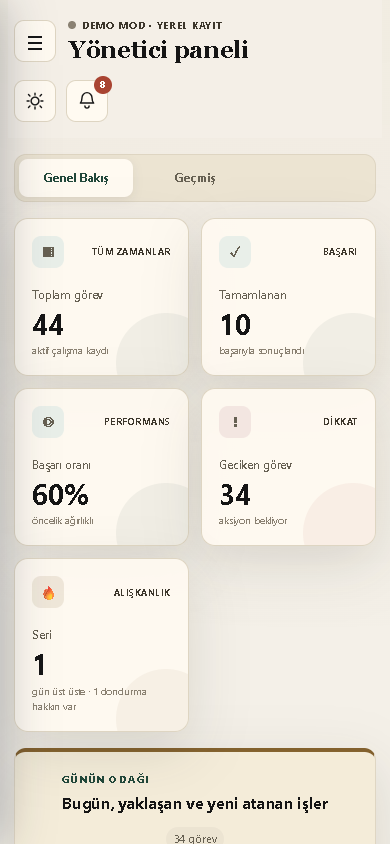
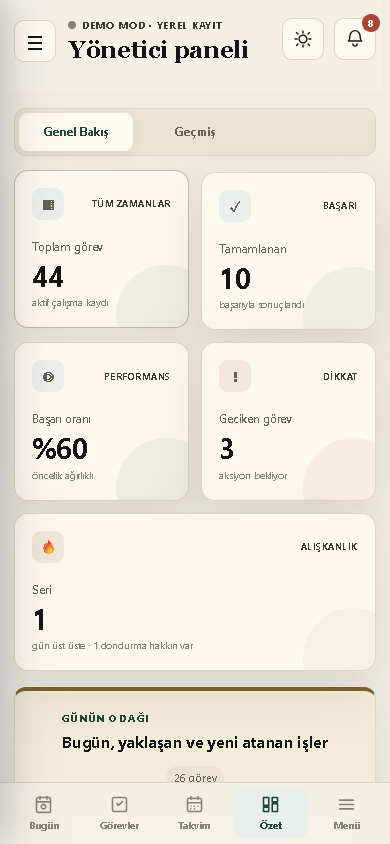
Ekran görüntülerini ve README özelliklerini yeni arayüze göre güncelle
- screenshots/ yeniden üretildi (kompakt liste, pano gruplama seçici, mobil alt çubuk)
- capture-screenshots: geçici bildirimler gizleniyor, Görevler ekranı en üstten çekiliyor
- README "Özellikler": tarihe göre gruplanmış liste, Kanban sütun gruplama, takvim Ay/Hafta,
  mobil alt gezinme çubuğu, uygulama içi onay penceresi, Q kısayolu

diff --git a/README.md b/README.md
@@ -79,6 +79,9 @@ Temel hedefler:
 - Tekrarlayan görevlerde bir sonraki örnek, görev kimliği ve tarihten türetilen sabit kimlikle oluşur; aynı görev iki cihazda tamamlansa da çift kayıt oluşmaz
 - Yönetici tarafından açılan hesaplar ilk girişte şifre değiştirmeye yönlendirilir
 - Kanban üzerinde sürükle-bırak durum değiştirme
+- Tarihe göre gruplanmış kompakt görev listesi (Gecikmiş / Bugün / Önümüzdeki 7 gün / Daha sonra / Tarihsiz); yuvarlak kutu görevi tamamlar, başlık detayı açar
+- Kanban sütunlarını duruma, önceliğe, kişiye veya projeye göre gruplama
+- Takvimde Ay / Hafta görünümü
 
 ### Arama ve raporlama
 
@@ -95,6 +98,9 @@ Temel hedefler:
 ### Kullanılabilirlik
 
 - Mobil açılır menü
+- Mobilde alt gezinme çubuğu (Bugün, Görevler, Takvim, Özet, Menü)
+- Tarayıcı `confirm()` yerine temaya uyan uygulama içi onay penceresi
+- Q kısayoluyla hızlı ekleme alanına odaklanma
 - Klavye odak göstergeleri
 - İşlem başarı ve hata bildirimleri
 - Geciken ve yaklaşan görev rozetleri
